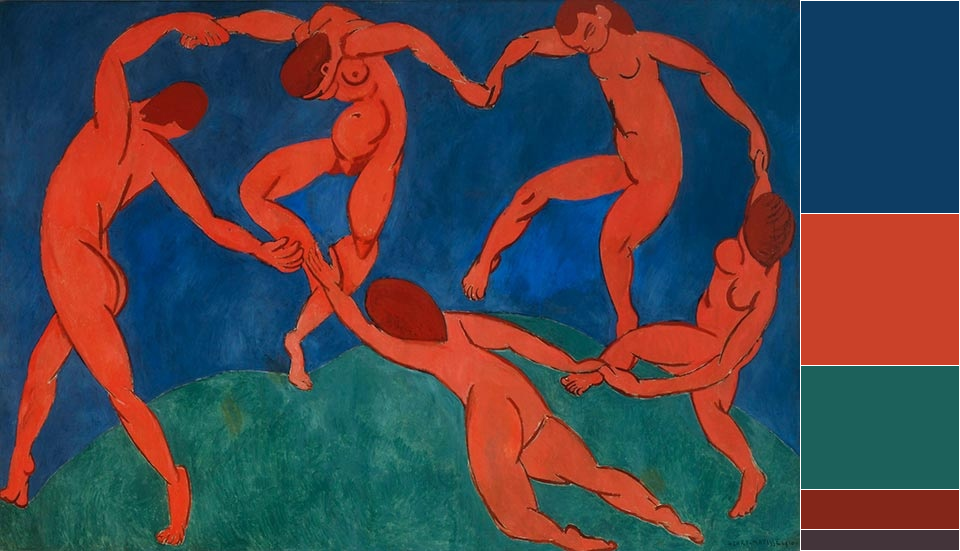
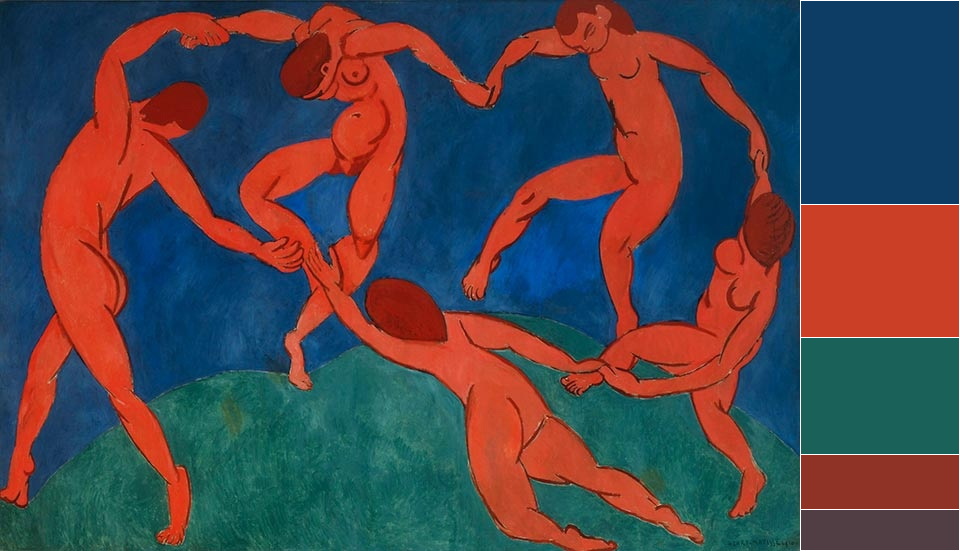
Returnung an image successfully!

diff --git a/newgui.py b/newgui.py
@@ -1,115 +1,27 @@
-from tkinter import *
 from PIL import Image, ImageTk, ImageGrab, EpsImagePlugin, ImageDraw
 from DC import getDC, to16
-import io
-import os
-import subprocess
-#import win32gui
 
 
 def get_color(c):
     color = '#'+to16(c[0])+to16(c[1])+to16(c[2])
     return(color)
 
+
 class Window:
     def __init__(self, image):
-        self.root = Tk()
-        self.root.resizable(0,0)
-        
-        self.fr0 = Frame(self.root)
-        self.fr0.pack()
-        self.fr1 = Frame(self.fr0)
-        self.fr1.pack()
-        self.fr23 = Frame(self.fr0)
-        self.fr23.pack()
-        self.fr4 = Frame(self.fr0)
-        self.fr4.pack()
-        self.fr2 = Frame(self.fr23)
-        self.fr2.pack(side = LEFT)
-        self.fr3 = Frame(self.fr23)
-        self.fr3.pack(side = LEFT)
-        
         self.img = Image.open(image)
         self.photo = Image.open(image)
-        self.photo_image = ImageTk.PhotoImage(self.img)
         (self.imgwidth, self.imgheight) = self.img.size
-        (self.imwidth, self.imheight) = (self.imgwidth//2, self.imgheight//2)
+        (self.imwidth, self.imheight) = (self.imgwidth//10, self.imgheight//10)
         self.im = self.img
         self.im.thumbnail((self.imwidth, self.imheight))
-        self.image_label = Label(self.fr2, image = self.photo_image)
-        self.image_label.pack()
         
         self.k = 5
-        self.c = Canvas(self.fr3, width = self.imgwidth//self.k+2, height = self.imgheight)
-        self.c.pack()
+
         clasters = getDC(self.im, self.imheight, self.imwidth)
-        self.create_rectangles(clasters)
-        self.root.update()
         
-        #self.getter(self.c)
-
-        self.save_as_png("my_saved_image")
-        
-        #self.c.postscript(file = "file_name.ps", colormode = 'color')
-        
-        #self.get_it() working!
-
-        #self.get_result()
-
         self.draw_rectangles(clasters)
         self.get_image()
-        
-        self.root.mainloop()
-
-
-    def create_rectangles(self, clasters):
-        centroids = [x[0] for x in clasters]
-        points = [x[1] for x in clasters]
-        print(centroids)
-        print(points)
-        total = sum(points)
-        frequencies = [point/total for point in points]
-        print(frequencies)
-        a = self.imgheight
-        b = self.imgwidth//self.k
-        y = [0]
-        s = 0
-        for i in range(self.k):
-            s = round(s + frequencies[i], 3)
-            y.append(s)
-        print(y)
-        for i in range(self.k-1):
-            self.c.create_rectangle(0,1 + a*y[i], b, a*y[i+1], outline = 'white', fill = get_color(centroids[i]))
-        self.c.create_rectangle(0,1 + a*y[self.k-1], b, a, outline = 'white', fill = get_color(centroids[self.k-1]))
-        for i in range(self.k):
-            print(get_color(centroids[i]))
-
-
-    def save_as_png(self, filename):
-        EpsImagePlugin.gs_windows_binary =  r'C:\Program Files\gs\gs9.54.0\bin\gswin64c'
-        self.c.postscript(file = filename + '.eps') 
-        img = Image.open(filename + '.eps') 
-        img.save(filename + '.png', 'png')
-        self.rectangles = img
-
-
-    def get_result(self):
-        print((self.imgwidth, self.imgheight))
-        (w, h) = self.rectangles.size
-        print((w,h))
-        (w1, h1) = round(w*self.imgheight/h), self.imgheight
-        print((w1, h1))
-        self.rectangles.thumbnail((w1,h1), Image.ANTIALIAS)
-        print(self.rectangles.size)
-        image1_size = (self.imgwidth, self.imgheight)
-        image2_size = (w1, h1)
-        print(image1_size,image2_size)
-        newImage = Image.new('RGB',(image1_size[0]+image2_size[0], image1_size[1]), (250,250,250))
-        newImage.paste(self.photo,(0,0))
-        newImage.paste(self.rectangles,(image1_size[0],0))
-        print(newImage.size)
-        #newImage.show()
-        newImage.save('result.png','png')
         
 
     def draw_rectangles(self, clasters):
@@ -143,35 +55,12 @@ class Window:
         rects = Image.open("pallete.png")
         image1_size = (self.imgwidth, self.imgheight)
         image2_size = rects.size
-        print(image1_size, image2_size)
         newImage = Image.new('RGB',(image1_size[0]+image2_size[0], image1_size[1]), (250,250,250))
         newImage.paste(self.photo,(0,0))
         newImage.paste(rects,(image1_size[0],0))
-        print(newImage.size)
         newImage.show()
         newImage.save('result.png','png')
 
-        
-        
-    """        
-    def get_it(self):
-        EpsImagePlugin.gs_windows_binary =  r'C:\Program Files\gs\gs9.54.0\bin\gswin64c'
-        ps = self.c.postscript(colormode='color')
-        img = Image.open(io.BytesIO(ps.encode('utf-8')))
-        img.save('filename.jpg', 'jpeg')
-            
-    def getter(self, widget):
-        x = self.root.winfo_rootx() + widget.winfo_x()
-        y = self.root.winfo_rooty() + widget.winfo_y()
-        x1 = x + widget.winfo_width()
-        y1 = y + widget.winfo_height()
-        print((x,y,x1,y1))
-        ImageGrab.grab().crop((x, y, x1, y1)).save("my_img.png")    
-
-    def get_image(self):
-        HWND = self.c.winfo_id()  # get the handle of the canvas
-        rect = win32gui.GetWindowRect(HWND)  # get the coordinate of the canvas
-        im = ImageGrab.grab(rect).save("my_wanted_img.png")
-    """        
+     
  
 w = Window("im1.jpg")
